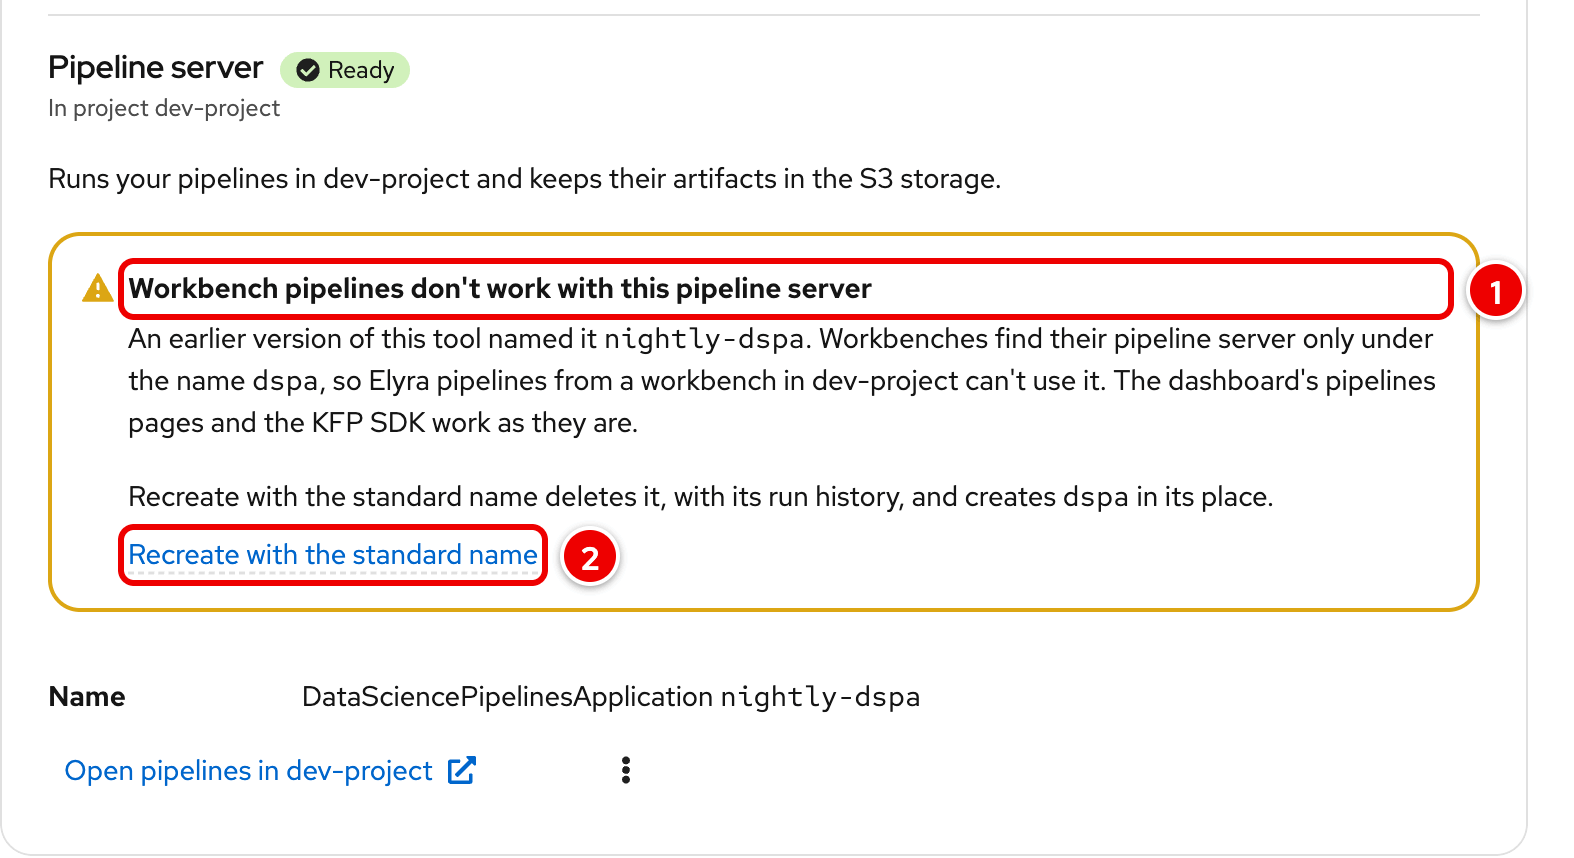
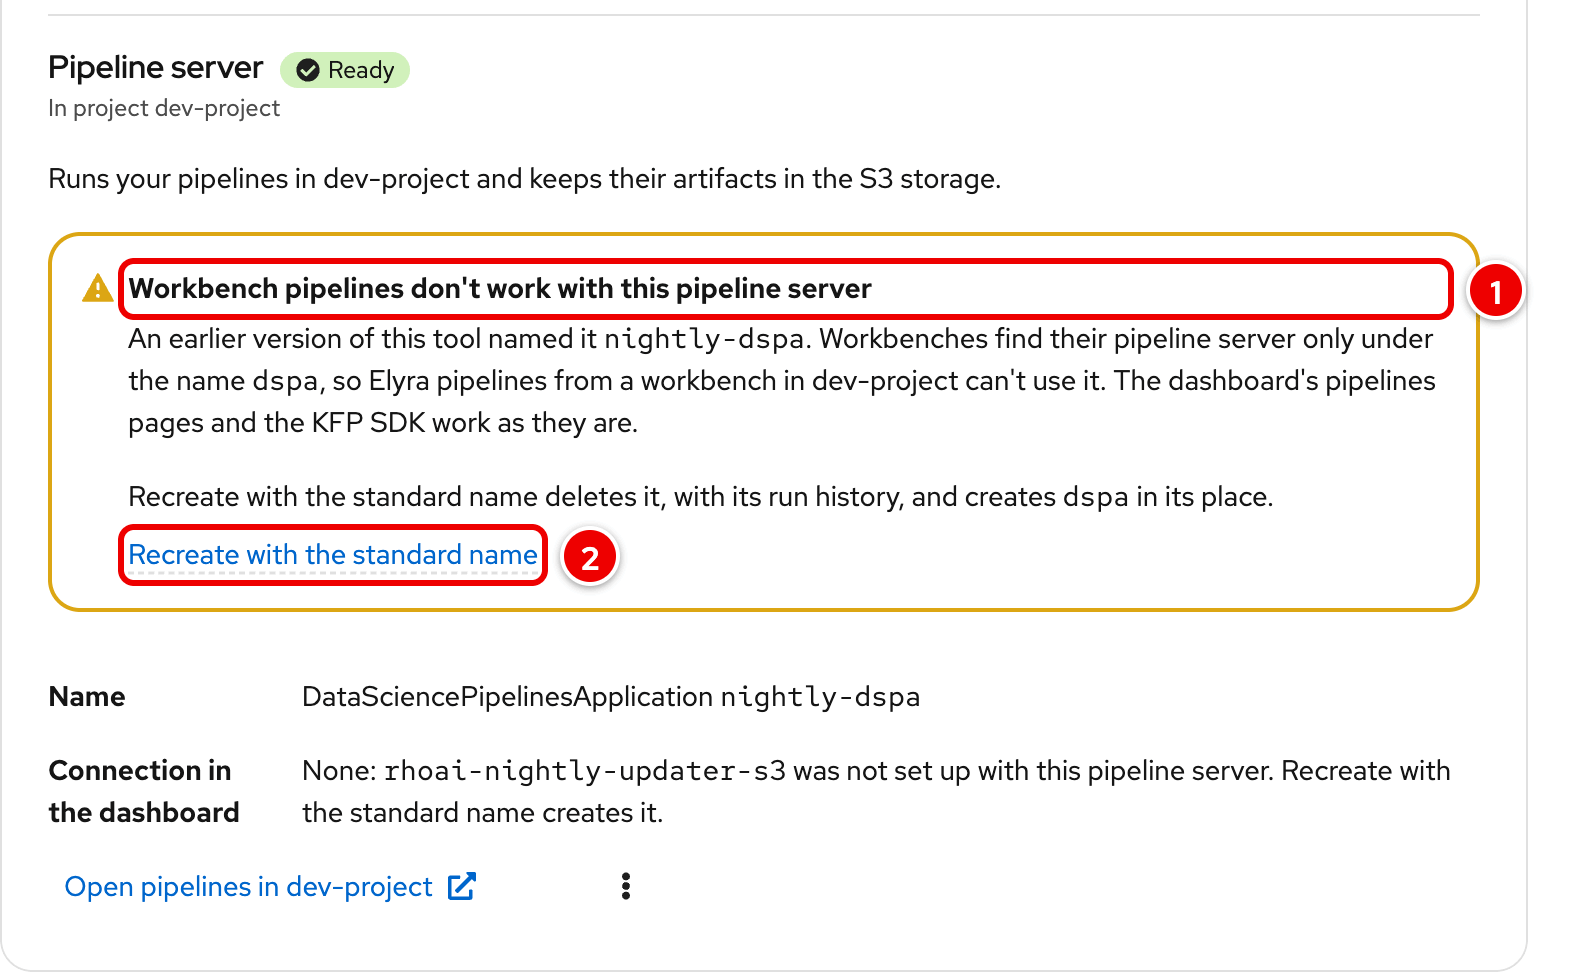
fix(pipelines): show the Connection from the Secret, not the annotation
The Pipelines tab showed the dashboard S3 Connection whenever the DSPA
carried the tool's annotation, which stays after the Connection is
deleted in the dashboard. GET /api/resources/status?project=<selected>
now reads Secret rhoai-nightly-updater-s3 itself for the tool's pipeline
server in that project only (one named GET, already granted; the
all-projects status reads no Secret, so its request count is unchanged)
and reports connectionState: present, missing, foreign or unreadable.
The tab shows the row only from that state: missing says it was deleted
(for example in the dashboard) and offers Set up again, which recreates
it and keeps runs and data (for nightly-dspa, Recreate with the standard
name); someone else's Secret is named as such and left alone.

diff --git a/frontend/src/components/environment/PipelinesTab.tsx b/frontend/src/components/environment/PipelinesTab.tsx
@@ -269,6 +269,33 @@ const StoragePart: React.FC<PipelinesTabProps> = ({ status, busy, baseReason, re
   );
 };
 
+/**
+ * The dashboard Connection as the Secret itself says (connectionState, read
+ * for the selected project), never from the DSPA's annotation alone: it may
+ * have been deleted in the dashboard since.
+ */
+const ConnectionState: React.FC<{ server: ResourceState; project: string; readOnly: boolean; baseReason: string | null; onSetUpAgain: () => void }> = ({ server, project, readOnly, baseReason, onSetUpAgain }) => {
+  const name = <code>{CONNECTION_NAME}</code>;
+  switch (server.connectionState) {
+    case "present":
+      return <>{name}, listed as &quot;{CONNECTION_DISPLAY_NAME}&quot;: an S3 connection with the storage&apos;s keys, endpoint and bucket <code>pipelines</code>. Usable from workbenches and model deployments in {project}; in-cluster address only, so it does not work from outside the cluster.</>;
+    case "foreign":
+      return <>A Secret {name} is in {project}, but it was not created by this tool, so it is not this storage&apos;s connection and the tool leaves it alone.</>;
+    case "unreadable":
+      return <>Cannot check {name}: {server.connectionMessage || "the Secret cannot be read"}.</>;
+    default: {
+      const why = server.connection ? <>Missing: {name} was deleted, for example in the dashboard.</> : <>None: {name} was not set up with this pipeline server.</>;
+      if (server.nonStandardName) return <>{why} Recreate with the standard name creates it.</>;
+      return (
+        <Stack hasGutter>
+          <StackItem>{why} Set up again creates it; runs and data are kept.</StackItem>
+          {!readOnly && <StackItem><TooltipButton variant="secondary" onClick={onSetUpAgain} disabledReason={baseReason}>Set up again</TooltipButton></StackItem>}
+        </Stack>
+      );
+    }
+  }
+};
+
 /** The project's pipeline server, or a placeholder until a project is chosen. */
 const PipelineServerPart: React.FC<PipelinesTabProps> = ({ status, project, busy, baseReason, readOnly, consoleURL, setPending }) => {
   if (!project) {
@@ -315,11 +342,12 @@ const PipelineServerPart: React.FC<PipelinesTabProps> = ({ status, project, busy
             <DescriptionListTerm>Name</DescriptionListTerm>
             <DescriptionListDescription>DataSciencePipelinesApplication <code>{server.name ?? DSPA_NAME}</code></DescriptionListDescription>
           </DescriptionListGroup>
-          {server.connection && (
+          {server.connectionState && (
             <DescriptionListGroup>
               <DescriptionListTerm>Connection in the dashboard</DescriptionListTerm>
               <DescriptionListDescription>
-                <code>{server.connection}</code>, listed as &quot;{CONNECTION_DISPLAY_NAME}&quot;: an S3 connection with the storage&apos;s keys, endpoint and bucket <code>pipelines</code>. Usable from workbenches and model deployments in {project}; in-cluster address only, so it does not work from outside the cluster.
+                <ConnectionState server={server} project={project} readOnly={readOnly} baseReason={baseReason}
+                  onSetUpAgain={() => setPending({ kind: "setup-pipeline-server", project, again: true })} />
               </DescriptionListDescription>
             </DescriptionListGroup>
           )}
@@ -515,6 +543,16 @@ export function storageConfirm(pending: Pending, minio: ResourceState | undefine
 export function pipelineServerConfirm(pending: Pending, pipelineServers: ResourceState[]): ConfirmSpec | null {
   switch (pending.kind) {
     case "setup-pipeline-server":
+      if (pending.again) {
+        return {
+          title: `Set up the pipeline server in ${pending.project} again?`, confirm: "Set up again", runTitle: `Set up the pipeline server in ${pending.project} again`,
+          summary: <Content component="p">Applies this tool&apos;s settings to the pipeline server in {pending.project} again and creates what is missing; runs and data are kept.</Content>,
+          changes: [
+            <>Project <code>{pending.project}</code>: DataSciencePipelinesApplication <code>{DSPA_NAME}</code> and Secret <code>{DSPA_SECRET_NAME}</code> are applied again.</>,
+            <>The dashboard S3 Connection <code>{CONNECTION_NAME}</code> ({CONNECTION_DISPLAY_NAME}) is created again, owned by the pipeline server.</>,
+          ],
+        };
+      }
       return {
         title: `Set up the pipeline server in ${pending.project}?`, confirm: "Set up", runTitle: `Set up the pipeline server in ${pending.project}`,
         summary: <Content component="p">In {pending.project}: a pipeline server that keeps its artifacts in the S3 storage. Takes 1 to 3 minutes.</Content>,

diff --git a/frontend/src/components/environment/environmentFlows.test.tsx b/frontend/src/components/environment/environmentFlows.test.tsx
@@ -184,17 +184,49 @@ describe("Pipelines: the earlier name", () => {
     await waitFor(() => expect(api.bodies["POST /api/resources/pipeline-server/setup"]).toEqual([{ project: "dev", recreate: true }]));
   });
 
-  it("shows the dashboard Connection set up with the server", async () => {
-    stubApi({
-      "/api/resources/status": { minio: readyMinio, mlflow: none, pipelineServers: [dspa("dev", { name: "dspa", connection: "rhoai-nightly-updater-s3" })] },
-      "/api/resources/projects": { projects: ["dev"] },
-    });
+  // The Connection is shown from the Secret itself (connectionState, read
+  // for the selected project), never from the DSPA's annotation alone.
+  const withConnection = (over: Partial<ResourceState>) => ({
+    "/api/resources/status": { minio: readyMinio, mlflow: none, pipelineServers: [dspa("dev", { name: "dspa", dataPVCs: ["mariadb-dspa"], connection: "rhoai-nightly-updater-s3", ...over })] },
+    "/api/resources/projects": { projects: ["dev"] },
+  });
+
+  it("asks for the selected project's Connection and shows it when it is there", async () => {
+    const api = stubApi(withConnection({ connectionState: "present" }));
     renderAt("/test-resources?tab=pipelines&project=dev");
     const details = await screen.findByLabelText("Pipeline server details");
     expect(details).toHaveTextContent("Connection in the dashboard");
     expect(details).toHaveTextContent("rhoai-nightly-updater-s3");
     expect(details).toHaveTextContent(/workbenches and model deployments/);
     expect(details).toHaveTextContent(/in-cluster address only/);
+    expect(api.calls).toContain("GET /api/resources/status?project=dev");
+  });
+
+  it("does not claim a Connection the status did not read", async () => {
+    stubApi(withConnection({}));
+    renderAt("/test-resources?tab=pipelines&project=dev");
+    const details = await screen.findByLabelText("Pipeline server details");
+    expect(details).not.toHaveTextContent("rhoai-nightly-updater-s3");
+  });
+
+  it("says when the Connection was deleted, and Set up again recreates it", async () => {
+    const api = stubApi({ ...withConnection({ connectionState: "missing" }), "POST /api/resources/pipeline-server/setup": { success: true, message: "Pipeline server created." } });
+    renderAt("/test-resources?tab=pipelines&project=dev");
+    const details = await screen.findByLabelText("Pipeline server details");
+    expect(details).toHaveTextContent(/Missing: rhoai-nightly-updater-s3 was deleted, for example in the dashboard/);
+    fireEvent.click(within(details).getByRole("button", { name: "Set up again" }));
+    const dialog = await screen.findByRole("dialog");
+    expect(dialog).toHaveTextContent(/runs and data are kept/);
+    fireEvent.click(within(dialog).getByRole("button", { name: "Set up again" }));
+    await waitFor(() => expect(api.bodies["POST /api/resources/pipeline-server/setup"]).toEqual([{ project: "dev" }]));
+  });
+
+  it("says when a Secret of that name is someone else's", async () => {
+    stubApi(withConnection({ connectionState: "foreign" }));
+    renderAt("/test-resources?tab=pipelines&project=dev");
+    const details = await screen.findByLabelText("Pipeline server details");
+    expect(details).toHaveTextContent(/not created by this tool/);
+    expect(within(details).queryByRole("button", { name: "Set up again" })).not.toBeInTheDocument();
   });
 
   it("a server named dspa shows no such notice", async () => {

diff --git a/frontend/src/components/QuickResourceCreator.tsx b/frontend/src/components/QuickResourceCreator.tsx
@@ -213,13 +213,16 @@ export const QuickResourceCreator: React.FC<QuickResourceCreatorProps> = ({ muta
       setProjectList((l) => l ?? []);
     }
   }, []);
+  // The Pipelines tab's selected project (set below, once it is known):
+  // the status also reads its dashboard Connection from the Secret itself.
+  const selectedPipelinesProject = useRef<string | null>(tab === "pipelines" ? urlProject : null);
   // The status and the projects load together, on every refresh and poll:
   // a project deleted elsewhere leaves the picker with the next load.
   const fetchResources = useCallback(async () => {
     setStatusLoading(true);
     const projects = refreshProjects();
     try {
-      const s = await getResourcesStatus();
+      const s = await getResourcesStatus(selectedPipelinesProject.current);
       setResStatus(s);
       setResError(null);
       setLastRefreshed(new Date());
@@ -582,6 +585,12 @@ export const QuickResourceCreator: React.FC<QuickResourceCreatorProps> = ({ muta
   // project= after a clear means none; only without project= at all (a
   // first visit) the default applies.
   const project = missingProject ? null : searchParams.has("project") ? urlProject : defaultProject(resStatus, projectNames, null);
+  const pipelinesProject = tab === "pipelines" ? project : null;
+  useEffect(() => {
+    if (selectedPipelinesProject.current === pipelinesProject) return;
+    selectedPipelinesProject.current = pipelinesProject;
+    if (pipelinesProject) void fetchResources();
+  }, [pipelinesProject, fetchResources]);
   const projectOptions: ProjectOption[] = projectNames.map((name) => {
     const status = pipelineServerStatus(resStatus, name, busy);
     const foreign = pipelineServerUnmanaged(resStatus, name);
@@ -700,7 +709,7 @@ export const QuickResourceCreator: React.FC<QuickResourceCreatorProps> = ({ muta
       doneMessage: done,
       // Every part's prerequisites on the latest status, before anything changes.
       preflight: async () => {
-        const fresh = await getResourcesStatus();
+        const fresh = await getResourcesStatus(selectedPipelinesProject.current);
         setResStatus(fresh);
         statusRef.current = fresh;
         return setUpBlocked(recheck(fresh, projectNames));

diff --git a/frontend/src/components/environment/resourceRow.tsx b/frontend/src/components/environment/resourceRow.tsx
@@ -207,7 +207,8 @@ export type Pending =
   /** deleteNamespace: also delete namespace seaweedfs (the user's informed choice). */
   | { kind: "teardown-minio"; deleteNamespace?: boolean }
   | { kind: "deploy-mlflow-pr"; pr: number }
-  | { kind: "setup-pipeline-server" | "teardown-pipeline-server"; project: string; name?: string }
+  /** again: set up an existing pipeline server again (for example to recreate its Connection). */
+  | { kind: "setup-pipeline-server" | "teardown-pipeline-server"; project: string; name?: string; again?: boolean }
   /** Replace the tool's pipeline server named nightly-dspa with one named dspa (workbench pipelines need it). */
   | { kind: "recreate-pipeline-server"; project: string; name: string }
   /** MLflow samples in a project's workspace (one request for all of them). */

diff --git a/frontend/src/types.ts b/frontend/src/types.ts
@@ -776,6 +776,9 @@ export interface ResourceState {
   nonStandardName?: boolean;
   /** The dashboard S3 Connection (a Secret in the project) set up with this pipeline server (pkg/cluster connectionSecretName), when there is one. */
   connection?: string;
+  /** What the Connection Secret itself says, read only for the selected project (GET /api/resources/status?project=): present, missing, foreign or unreadable; absent when not read. */
+  connectionState?: "present" | "missing" | "foreign" | "unreadable";
+  connectionMessage?: string;
 }
 
 // --- Models (pkg/types InferenceGatewayState, ModelsStatus, ModelState) ---

diff --git a/frontend/src/services/api.ts b/frontend/src/services/api.ts
@@ -310,8 +310,9 @@ export function revertDashboard(): Promise<OperationResponse> {
   });
 }
 
-export function getResourcesStatus(): Promise<ResourcesStatus> {
-  return request('/api/resources/status');
+/** The Environment status; project (the Pipelines tab's selected one) also reads its dashboard Connection. */
+export function getResourcesStatus(project?: string | null): Promise<ResourcesStatus> {
+  return request(project ? `/api/resources/status?project=${encodeURIComponent(project)}` : '/api/resources/status');
 }
 
 export function getDSProjects(): Promise<{ projects: string[] | null }> {

diff --git a/pkg/cluster/pipeline_connection_test.go b/pkg/cluster/pipeline_connection_test.go
@@ -101,3 +101,70 @@ func TestTeardownPipelineServer_DeletesTheConnection(t *testing.T) {
 		t.Fatalf("got %+v", resp)
 	}
 }
+
+// The selected project's status reads the Connection itself: the DSPA's
+// annotation only says the tool created one, not that it is still there.
+func TestGetResourcesStatusFor_ReadsTheConnection(t *testing.T) {
+	annotated := `,"annotations":{"` + dspaConnectionAnnotation + `":"` + connectionSecretName + `"}`
+	cases := []struct {
+		name, want string
+		setup      func(f *resourceFake)
+	}{
+		{"present", ConnectionPresent, func(f *resourceFake) {
+			f.putJSON(secretPath("proj", connectionSecretName), `{"metadata":{"labels":`+toolLabelJSON+`}}`)
+		}},
+		{"deleted in the dashboard", ConnectionMissing, func(f *resourceFake) {}},
+		{"someone else's", ConnectionForeign, func(f *resourceFake) {
+			f.putJSON(secretPath("proj", connectionSecretName), `{"metadata":{"labels":{"opendatahub.io/dashboard":"true"}}}`)
+		}},
+		{"unreadable", ConnectionUnreadable, func(f *resourceFake) {
+			f.fail["GET "+secretPath("proj", connectionSecretName)] = 403
+		}},
+	}
+	for _, tc := range cases {
+		t.Run(tc.name, func(t *testing.T) {
+			f, c := newResourceFake(t)
+			putDSProject(f, "proj")
+			putDSProject(f, "other")
+			putDSPA(f, "proj", dspaName, toolLabelJSON, toolFieldManager, "Apply", s3Host(), dspaSecretName, annotated, "")
+			putDSPA(f, "other", dspaName, toolLabelJSON, toolFieldManager, "Apply", s3Host(), dspaSecretName, annotated, "")
+			tc.setup(f)
+			st, err := GetResourcesStatusFor(c, "proj")
+			if err != nil {
+				t.Fatal(err)
+			}
+			for _, ps := range st.PipelineServers {
+				want := ""
+				if ps.Namespace == "proj" {
+					want = tc.want
+				}
+				if ps.ConnectionState != want {
+					t.Errorf("%s connection state = %q, want %q (%+v)", ps.Namespace, ps.ConnectionState, want, ps)
+				}
+			}
+			if hasRequest(f, "GET "+secretPath("other", connectionSecretName)) {
+				t.Error("the Connection of a project that is not selected was read")
+			}
+		})
+	}
+}
+
+// Without a selected project, or for a project without the tool's server,
+// the status reads no Secret.
+func TestGetResourcesStatusFor_NoSecretReadOutsideTheSelectedServer(t *testing.T) {
+	f, c := newResourceFake(t)
+	putDSProject(f, "proj")
+	putDSPA(f, "proj", dspaName, toolLabelJSON, toolFieldManager, "Apply", s3Host(), dspaSecretName, "", "")
+	for _, project := range []string{"", "elsewhere"} {
+		if _, err := GetResourcesStatusFor(c, project); err != nil {
+			t.Fatal(err)
+		}
+	}
+	for _, ns := range []string{"proj", "elsewhere"} {
+		if hasRequest(f, "GET "+secretPath(ns, connectionSecretName)) {
+			t.Errorf("secret read in %s", ns)
+		}
+	}
+}
+
+func hasRequest(f *resourceFake, req string) bool { return requestIndex(f, req) >= 0 }

diff --git a/pkg/cluster/pipeline_server.go b/pkg/cluster/pipeline_server.go
@@ -1044,6 +1044,47 @@ func addDashboardDSPASettings(c *Client, spec, apiServer map[string]interface{})
 	return nil
 }
 
+// What the selected project's Connection Secret says (ResourceState.
+// ConnectionState).
+const (
+	ConnectionPresent    = "present"
+	ConnectionMissing    = "missing"
+	ConnectionForeign    = "foreign"
+	ConnectionUnreadable = "unreadable"
+)
+
+// GetResourcesStatusFor is GetResourcesStatus plus, for the tool's pipeline
+// server in project (the Pipelines tab's selected project), the state of
+// its dashboard Connection read from the Secret itself: the DSPA's
+// annotation only says the tool created one, which the dashboard may since
+// have deleted. One named GET, only when the project has the tool's
+// server (so only in a visible Data Science project); other projects, and
+// an empty project, read no Secret.
+func GetResourcesStatusFor(c *Client, project string) (*types.ResourcesStatus, error) {
+	status, err := GetResourcesStatus(c)
+	if err != nil || project == "" {
+		return status, err
+	}
+	for i := range status.PipelineServers {
+		ps := &status.PipelineServers[i]
+		if ps.Namespace != project || ps.Terminating {
+			continue
+		}
+		meta, found, err := readObjectMeta(c, namespacedPath("v1", "secrets", project, connectionSecretName))
+		switch {
+		case err != nil:
+			ps.ConnectionState, ps.ConnectionMessage = ConnectionUnreadable, err.Error()
+		case !found:
+			ps.ConnectionState = ConnectionMissing
+		case !meta.hasToolLabel():
+			ps.ConnectionState = ConnectionForeign
+		default:
+			ps.ConnectionState = ConnectionPresent
+		}
+	}
+	return status, nil
+}
+
 // deleteConnection deletes the dashboard Connection the tool created in
 // project (its label, by UID). The DSPA owns it, so the garbage collector
 // would delete it too; deleting it here also covers one an interrupted

diff --git a/pkg/api/handlers.go b/pkg/api/handlers.go
@@ -1415,7 +1415,13 @@ var HandleRefreshStream = withMutationAuth(func(c *cluster.Client, w http.Respon
 // Uses the SA client to list all DS projects -- this is an internal team tool
 // where all authenticated users see all projects.
 var HandleResourcesStatus = withAuth(func(c *cluster.Client, w http.ResponseWriter, r *http.Request) {
-	status, err := cluster.GetResourcesStatus(c)
+	// ?project= is the Pipelines tab's selected project: its Connection is
+	// read too. An invalid name reads nothing more.
+	project := r.URL.Query().Get("project")
+	if !namespaceRegex.MatchString(project) {
+		project = ""
+	}
+	status, err := cluster.GetResourcesStatusFor(c, project)
 	if err != nil {
 		slog.Error("resources status error", "error", err)
 		writeError(w, "failed to get resources status", http.StatusInternalServerError)

diff --git a/pkg/types/types.go b/pkg/types/types.go
@@ -1138,6 +1138,13 @@ type ResourceState struct {
 	// Connection is the dashboard S3 Connection (a Secret in the project)
 	// the tool created with this pipeline server, or "".
 	Connection string `json:"connection,omitempty"`
+	// ConnectionState is what the Secret itself says, read only for the
+	// selected project (GET /api/resources/status?project=): "present"
+	// (the tool's), "missing" (none; deleted, for example in the
+	// dashboard), "foreign" (a Secret of that name someone else made) or
+	// "unreadable" (ConnectionMessage says why). "" means not read.
+	ConnectionState   string `json:"connectionState,omitempty"`
+	ConnectionMessage string `json:"connectionMessage,omitempty"`
 }
 
 // KeptPVC is a PersistentVolumeClaim and its size.

diff --git a/RUNBOOK.md b/RUNBOOK.md
@@ -316,6 +316,7 @@ The page has an **Overview** (each feature's state and next step) and one tab pe
 | Clean up stopped | The message names the part that failed and what was not done. Fix that part's cause (the same as for its own Delete) and run Clean up again: parts already deleted are no longer offered |
 | "Workbench pipelines don't work with this pipeline server" | The pipeline server was set up by an earlier version as `nightly-dspa`; odh-notebook-controller gives workbenches the pipeline config of the DSPA named `dspa` only. **Recreate with the standard name** (it checks everything first, then deletes `nightly-dspa` with its run history; S3 artifacts stay) or keep it: the dashboard's pipelines pages and the KFP SDK work either way. If the old server stays Terminating, Recreate stops there; use **Set up** once it is gone |
 | Set up: "already has pipeline server 'nightly-dspa'" | Same cause: use **Recreate with the standard name** instead of Set up |
+| Pipelines tab: "Connection in the dashboard: Missing" | Secret `rhoai-nightly-updater-s3` is gone from the project (for example deleted in the dashboard). **Set up again** recreates it and keeps runs and data. "not created by this tool": someone else made a Secret of that name; the tool leaves it alone. The tab reads the Secret itself for the selected project only |
 | Set up: "is not a Data Science project" | The pipeline server goes only into an existing data science project; the tool never creates one. Create the project in the RHOAI dashboard |
 | Set up or Delete: "Secret 'rhoai-nightly-updater-s3' already exists ... not created by this tool" | Someone else made a Secret with the Connection's name in the project. Nothing was changed; rename or delete theirs |
 | Pipeline server reads Error after 5 minutes | Its API server is not ready 5 minutes after creation (`APIServerReady`, the dashboard's own timeout). `Ready=False` alone (another component restarting) does not count |
